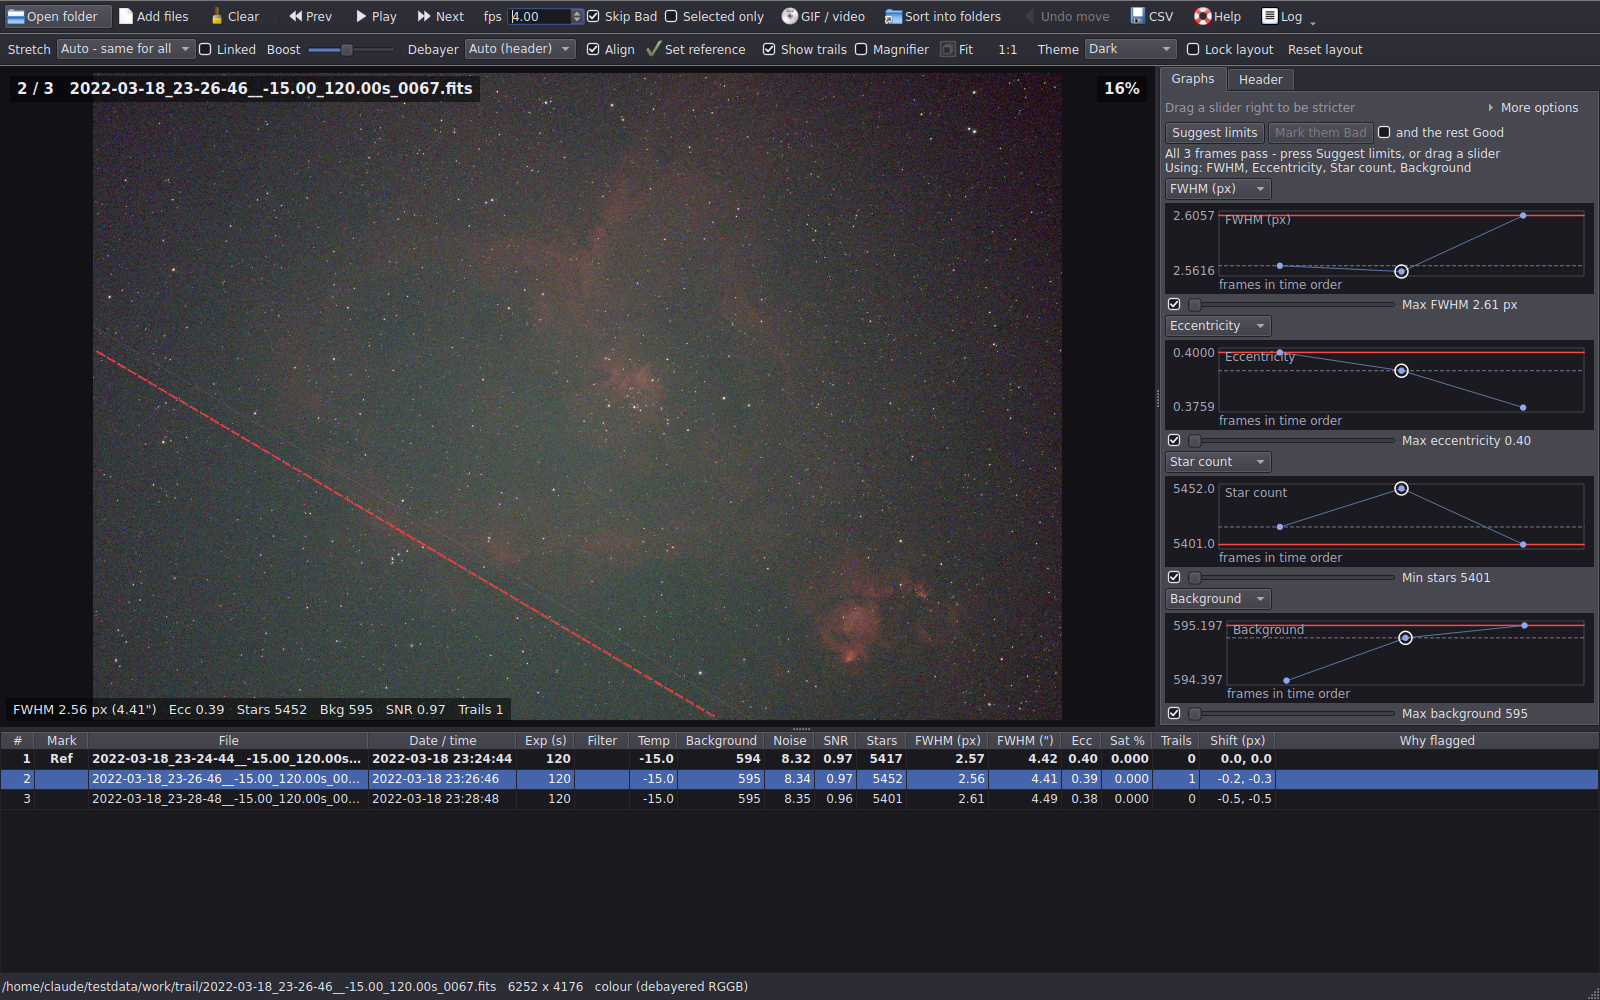
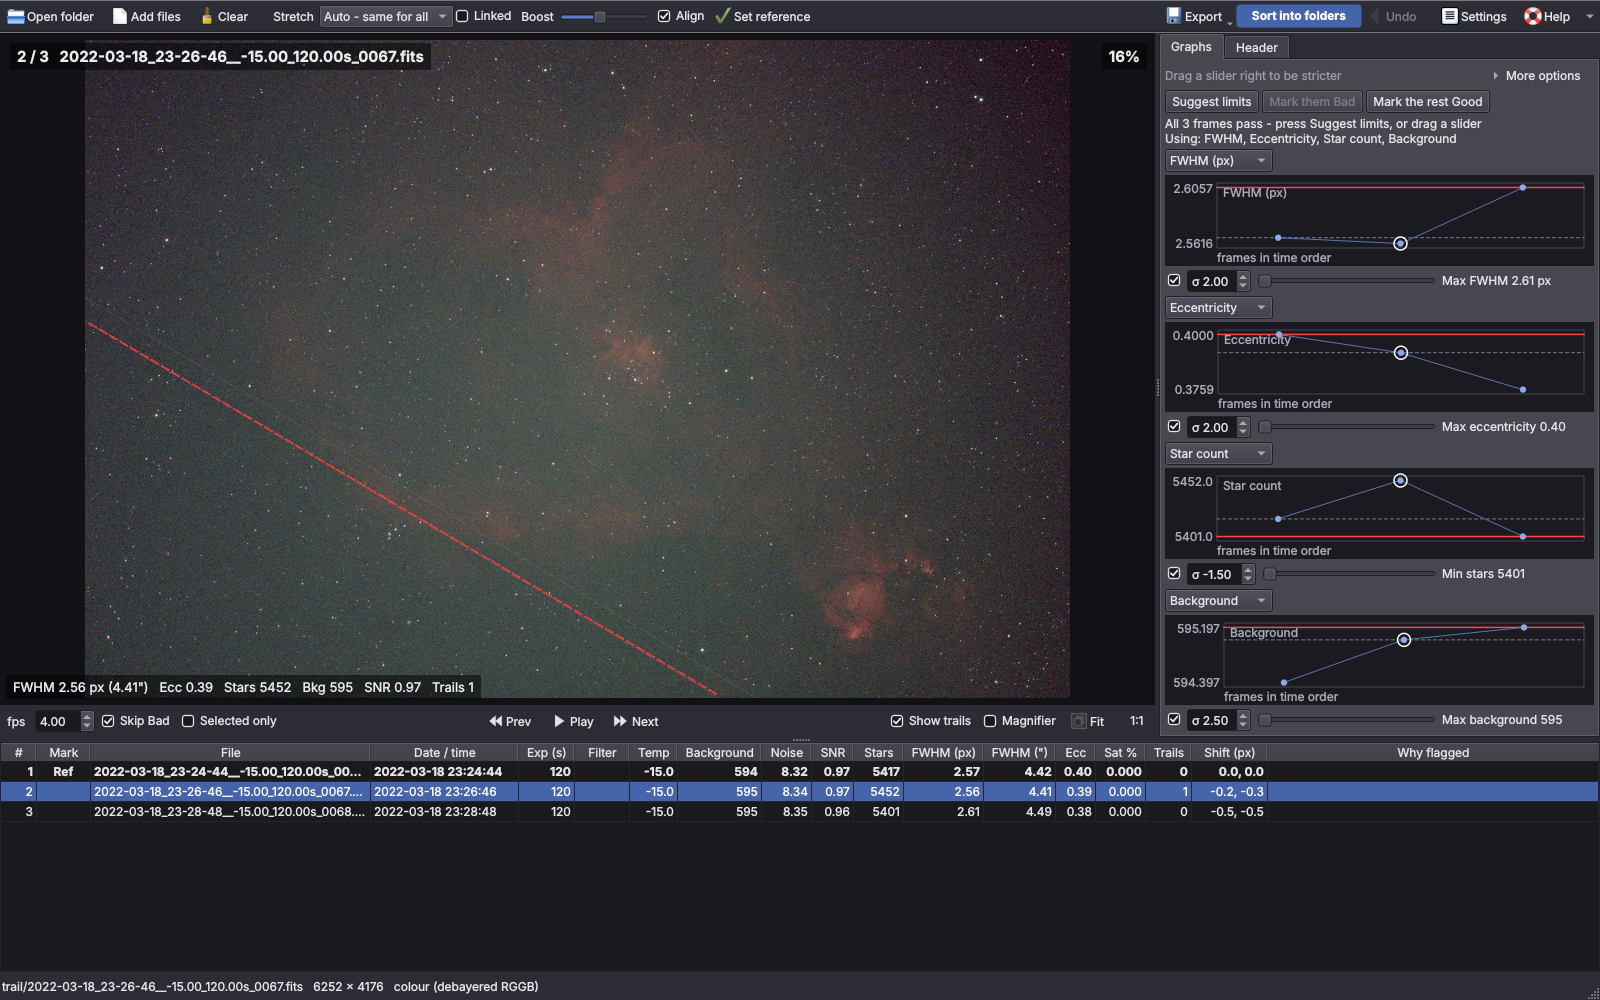
Add files via upload

Changed region(s): [[0.0, 0.0, 1.0, 0.837], [0.0, 0.961, 0.4688, 0.992]]

diff --git a/README.md b/README.md
@@ -26,7 +26,7 @@ Open a folder of subs and AS Blink measures every frame in the background while 
 - **Full header view:** every keyword, with a search box and an option to show only what changed from the previous frame.
 - **Magnifier**, fit to window and 1:1 zoom.
 - **Mark Good / Bad** with one key, then **sort into folders**: inside the lights folder, in a folder beside it (`Lights_Bad`), or anywhere you choose, and optionally only the Bad frames. Moves can be undone.
-- **GIF or MP4** of selected frames, and **CSV** of the statistics.
+- **Export:** a GIF or MP4 of selected frames, or a CSV of the statistics, from the **Export** button.
 - **Videos:** step through SER, AVI, MP4 and MOV files one frame at a time, or play them at 0.5 to 30 frames a second.
 - **Themes:** Dark, Light and Night (red), in **Settings**. The layout is remembered and can be locked.
 - **Support log:** if something goes wrong, **Save log for support...** (under the arrow beside **Help**) saves one text file to send in.
@@ -75,13 +75,13 @@ You can make a desktop shortcut to `AS_Blink.exe`, and you can drag a folder of 
 
 ## Rejecting frames
 
-The blink controls (Prev, Play, Next, speed, Skip Bad, Selected only) are in the bar under the picture.
+The blink controls are in the bar under the picture: **Prev**, **Play** and **Next** always sit in the middle, under the centre of the picture, with the speed, **Skip Bad** and **Selected only** on the left and **Show trails**, **Magnifier**, **Fit** and **1:1** on the right.
 
-Under each graph is a tick box, a sigma and a slider. The slider is the limit for that measurement (for example "Max FWHM 3.09 px"), drawn as a red line on the graph. Frames past a limit turn orange. Only measurements that are shown on a graph and ticked are used, so to judge on FWHM and star count alone, untick the others.
+Under each graph is a tick box, a sigma and a slider. The slider is the limit for that measurement (for example "Max FWHM 3.09 px"), drawn as a red line on the graph. Frames past a limit turn orange, and the line under the buttons shows how many pass and the success rate, for example "97 of 112 frames pass, 15 fail - 86% success". Only measurements that are shown on a graph and ticked are used, so to judge on FWHM and star count alone, untick the others.
 
 **Suggest limits** sets each ticked slider to the session's "odd ones out": frames worse than the typical value by more than that graph's sigma times its usual spread, or by a minimum gap if that is bigger (the gap stops a very steady graph flagging tiny wobbles, and "(min. gap)" shows when it sets the limit). Each graph has its own sigma, the same way round as PixInsight's SubframeSelector: plus for "too high" (FWHM 2, eccentricity 2, background 2.5) and minus for "too low" (star count -1.5, SNR -2.5). Change a sigma and its slider moves straight away.
 
-Frames are only flagged until you press **Mark them Bad**. **Mark the rest Good** marks every other measured frame, before or after. Nothing is moved until you use **Sort into folders**, which can put the Bad frames in a folder beside your lights folder (`Lights_Bad`), so stacking software that reads the folders inside your lights folder does not pick them up, and can leave everything else where it is.
+Frames are only flagged until you press **Mark them Bad**. **Mark the rest Good** marks every other measured frame, before or after. Nothing is moved until you use **Sort into folders** (the highlighted button at the right of the toolbar), which can put the Bad frames in a folder beside your lights folder (`Lights_Bad`), so stacking software that reads the folders inside your lights folder does not pick them up, and can leave everything else where it is.
 
 Keep each filter in its own folder: the limits apply to every frame that is open, and AS Blink warns you if a folder mixes filters, exposures or frame sizes.
 
@@ -107,8 +107,6 @@ You may use it free of charge and share it unchanged, but not sell it, modify it
 
 ## Support
 
-If AS Blink saves you time, you can buy me a coffee:
-
-<a href="https://www.buymeacoffee.com/astroshed"><img src="https://cdn.buymeacoffee.com/buttons/v2/default-yellow.png" alt="Buy Me a Coffee" height="50"></a>
+If AS Blink saves you time, you can buy me a coffee: [buymeacoffee.com/astroshed](https://buymeacoffee.com/astroshed)
 
 More AstroShed software and videos: [astroshed.co.uk](https://astroshed.co.uk)

diff --git a/CHANGELOG.md b/CHANGELOG.md
@@ -1,5 +1,13 @@
 # Changelog
 
+## 1.0.5
+
+- **Added:** a success rate on the pass line under Suggest limits, for example "97 of 112 frames pass, 15 fail - 86% success". It is rounded down, so it never shows 100% while a frame fails.
+- **Added:** **About AS Blink** in the Help menu, with the version, licence and links.
+- **Changed:** Prev, Play and Next are now centred under the picture and stay centred when the window or the divider is resized. The speed, Skip Bad and Selected only sit to their left.
+- **Changed:** a tidier toolbar. GIF / video and CSV are now under one **Export** button. Export, **Sort into folders** (now highlighted in the theme's colour), **Undo**, **Settings** and **Help** sit at the right-hand end.
+- **Fixed:** on smaller laptop screens (1366 and 1280 pixels wide) Help could drop off the end of the toolbar behind the >> arrow. The whole toolbar now fits.
+
 ## 1.0.4
 
 - **Added:** a sigma for each graph. **Suggest limits** now uses a separate sigma for FWHM, eccentricity, star count, background and SNR, set the same way round as PixInsight's SubframeSelector (plus for too high, minus for too low). The starting values are FWHM 2, eccentricity 2, background 2.5, star count -1.5 and SNR -2.5. Changing a sigma moves its slider straight away, and "(min. gap)" shows when the minimum gap, not the sigma, sets a limit.
